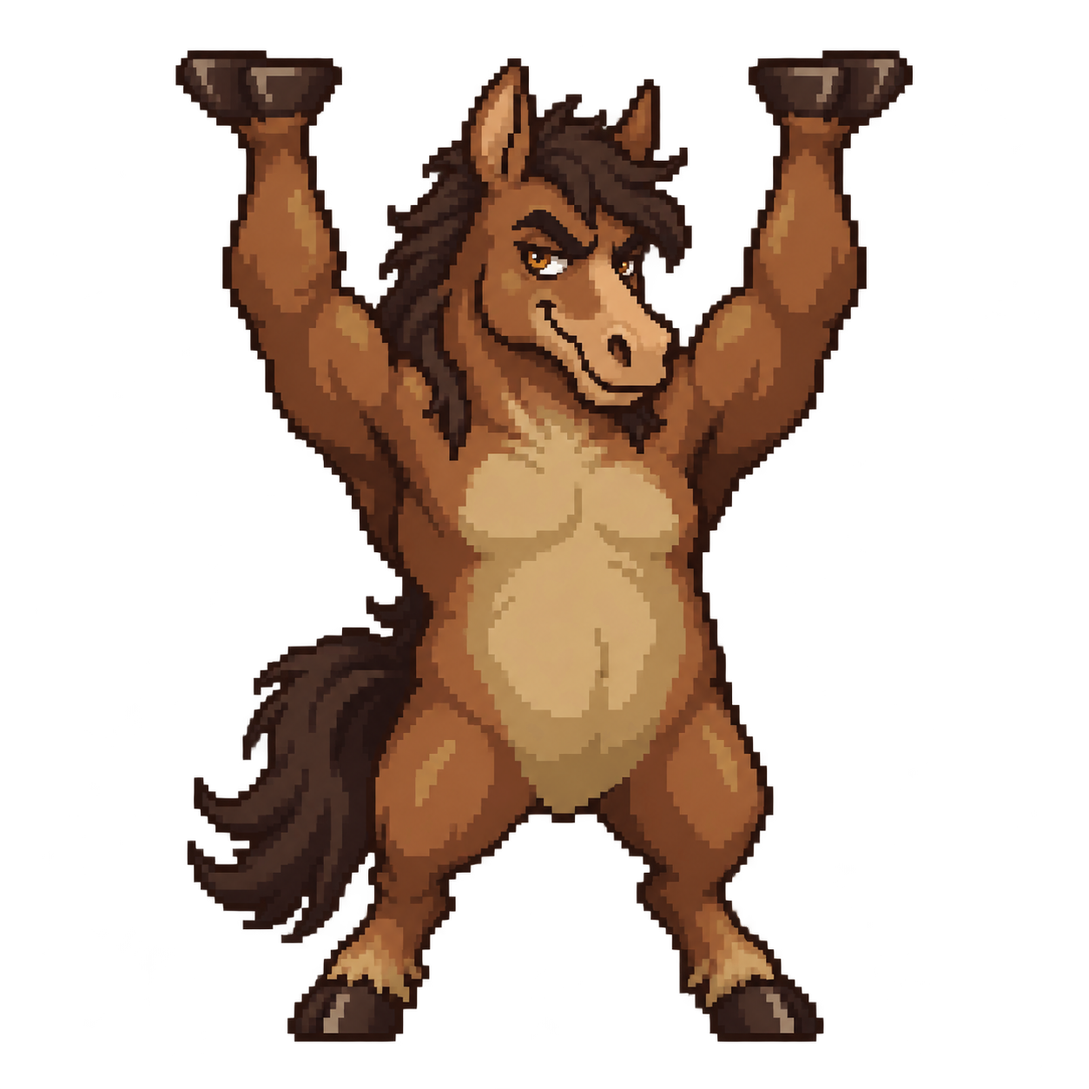
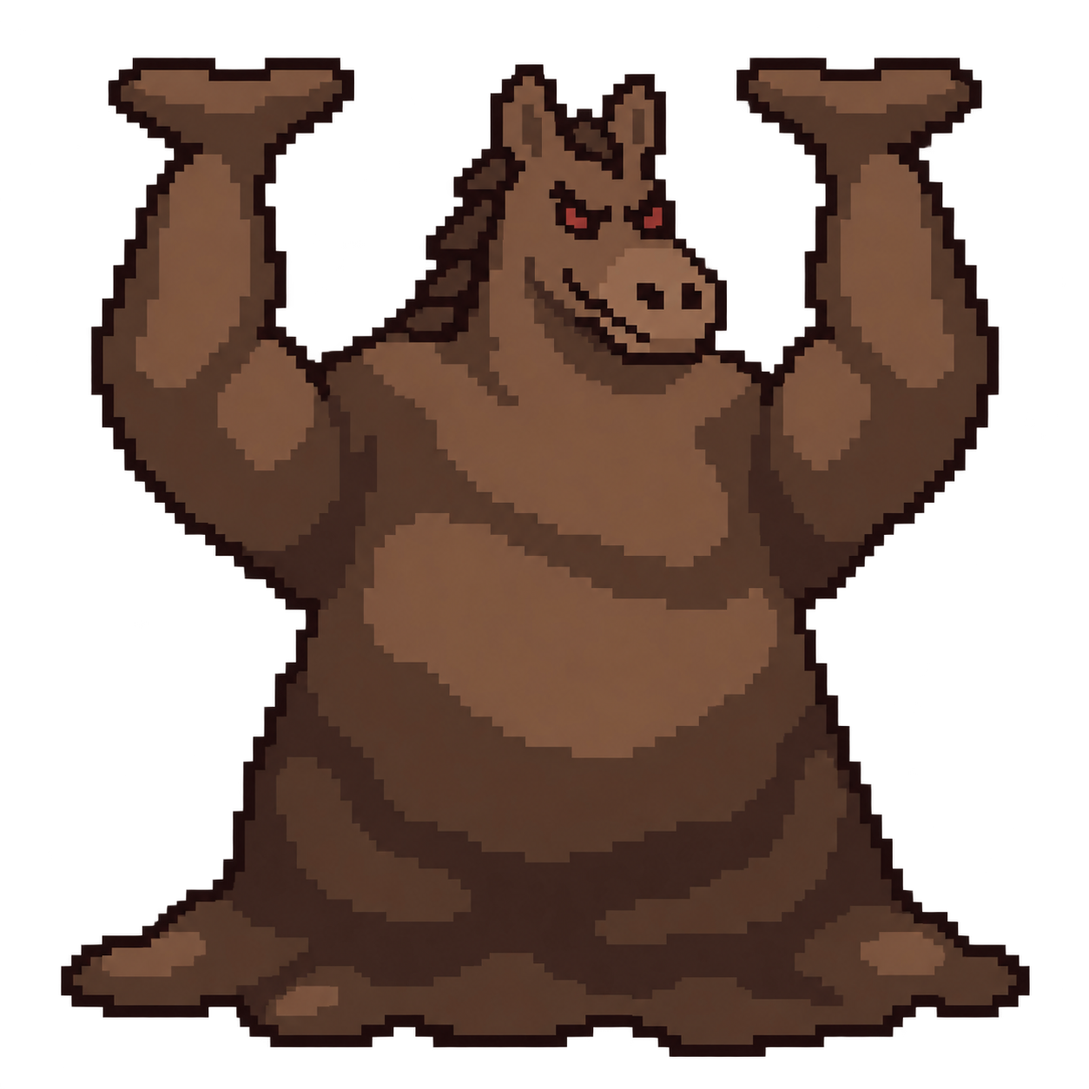
Update YNM app gallery content and theme previews

diff --git a/assets/serenity-data.js b/assets/serenity-data.js
@@ -4,30 +4,38 @@ import { serenityPrivacy } from "./serenity-privacy.js";
 export const serenity = {
   id: "yaonima",
   name: "摇泥马",
-  initials: "宁静",
-  icon: "./serenity-icon.png",
+  initials: "YNM",
+  icon: "./serenity-icon.png?v=20260922",
   accent: "#4a643d",
   version: "iOS 1.0.0",
   platform: "iPhone · iOS 17.4+",
   tagline: "封印纷扰，把宁静还给自己。",
-  description: "把让你分心的应用收进锁妖笼，在一片像素森林里找回日常的宁静。平时保持隐藏，需要时短暂解封，让每一次打开，都出于自己的选择。",
+  description: "把让你分心的应用收进锁妖笼，用喜欢的主题和轻松的封印互动找回日常的宁静。平时保持隐藏，需要时短暂解封，让每一次打开，都出于自己的选择。",
+  appStoreUrl: "https://apps.apple.com/app/id6812591609",
   privacy: serenityPrivacy,
   features: [
     { title: "让干扰，暂时隐去", description: "通过系统选择器，把容易分心的应用收进同一个锁妖笼。锁定期间保持隐藏，无需反复开启专注计时。" },
     { title: "需要时，从容解封", description: "临时解封可选 5、15、30 分钟，或 1～6 小时；也可提前重新封印，把选择权留在手里。" },
-    { title: "桌面上的快捷入口", description: "通过桌面组件快速解封或立即恢复锁定，少一点来回切换，多一点顺手。" },
-    { title: "让森林，重新有生机", description: "随着笼内应用增加，妖兽逐渐被压入地下。封印完成时，破败森林恢复葱郁，让每一点改变都看得见。" },
-    { title: "亲自出手，封印妖兽", description: "锁定且封印未满时，连续点击妖兽也能推进封印。游戏进度只影响画面，不增加真实应用限制，也不影响解封。" },
+    { title: "桌面上的快捷入口", description: "添加名为“锁妖笼”的小型或中型桌面组件，查看状态与倒计时，快速解封或立即封印。组件跟随主题与妖兽名字，刷新由系统安排。" },
+    { title: "三种主题，随心切换", description: "默认的潦草涂鸦、复古像素森林、简洁黑白手绘，均可在设置中预览并切换。主页、弹窗和组件一起换装，不重置应用清单或解封计时。" },
+    { title: "亲自出手，封印妖兽", description: "锁定且封印未满时，点击妖兽或持续轻摇手机都能推进封印；“摇一摇封印”可在设置中关闭。游戏进度只影响画面，不增加真实应用限制，也不影响解封。" },
+    { title: "给妖兽，起个专属名字", description: "点击主页标题旁的编辑图标，输入最多 4 个字的名字。主页、故事、教程和组件标题同步变化，留空恢复“YNM”。" },
+    { title: "封印推进，场景焕新", description: "妖兽随进度从邪笑变为抵抗、流汗，直至被压入地下。像素森林恢复葱郁，涂鸦枝条添叶，黑白手绘迎来金光与小黑云。" },
+    { title: "使用手册，随时查看", description: "设置中的“帮助”提供使用手册与权限说明，不熟悉操作时随时查阅，也可通过开发者渠道反馈问题。" },
     { title: "选择与状态，留在本机", description: "无需注册账号，不上传应用列表或使用数据。应用选择、解封状态和偏好由设备本地保存。" },
   ],
   faq: [
+    { title: "怎样更换主题？会影响解封吗？", description: "打开设置 → 外观 → 皮肤，预览并选择潦草涂鸦、像素森林或黑白手绘。默认使用潦草涂鸦。切换后保留应用选择、手动进度和解封截止时间；无权限时也能换肤。桌面组件可能稍后才刷新外观。" },
+    { title: "如何给妖兽改名？", description: "点击主页标题旁的编辑图标，输入最多 4 个字并保存；留空恢复“YNM”。主页、故事、教程、空笼提示和组件内容会跟随名字变化，系统主屏幕中组件下方的固定名称仍为“锁妖笼”。请避免填写敏感信息，名字可能显示在桌面上。" },
+    { title: "摇一摇封印怎么用？为什么没反应？", description: "先在设置中确认“摇一摇封印”已开启。授权正常、主页处于锁定且封印未满、没有弹窗或设置页遮挡时，握稳手机持续轻摇即可推进封印；无需大幅甩动。解封、后台、已满封印或权限不足时不会响应。不便摇动或设备不支持时可直接点击妖兽，关闭开关后点击仍可用。" },
+    { title: "在哪里查看使用手册？", description: "打开设置，在“帮助”中选择“使用手册”；需要了解授权时选择下方的“权限说明”。手动完成封印是暂时的游戏状态，不代表永久通关，也不会改变应用的真实隐藏规则。" },
     { title: "第一次使用，怎样开始？", description: "在主页点击“授予权限”，完成个人屏幕使用时间授权；再点击锁妖笼，通过系统选择器选好要隐藏的应用并保存。需要使用时，在主页或桌面组件临时解封。" },
-    { title: "封印、隐藏和游戏进度是什么关系？", description: "应用的封印对应所选应用的隐藏状态。即使森林里的封印进度没有达到 100%，锁定时已选应用也会隐藏。点击妖兽只改变游戏表现，不会额外限制应用，更不需要先完成游戏才能解封。" },
+    { title: "封印、隐藏和游戏进度是什么关系？", description: "应用的封印对应所选应用的隐藏状态。即使画面里的封印进度没有达到 100%，锁定时已选应用也会隐藏。点击或轻摇只改变游戏表现，不会额外限制应用，更不需要先完成游戏才能解封。" },
     { title: "解封有哪些时长？到期会准时恢复吗？", description: "可选 5、15、30 分钟以及 1～6 小时。有限解封到期后由系统监测恢复锁定；持续锁屏等情况下，系统回调可能延迟，下一次回调或打开摇泥马时会同步状态。它不是精确到秒的强制计时器。" },
     { title: "为什么没有“自动”解封？", description: "只有系统后台 App 刷新可用时才显示“自动”。自动解封半小时后等待系统安排后台检查，不代表半小时一定重新封印。后台刷新不可用时会改为“一小时”；进行中的自动解封从原开始时间计算这一小时。可检查系统后台 App 刷新设置，或选择明确的有限时长。" },
     { title: "出现“锁妖笼·已失灵”怎么办？", description: "这表示当前屏幕使用时间权限不足。请在主页重新授予权限，必要时检查系统设置。原有选择和解封时间会保留，授权恢复后继续同步；仍在有效期内的解封不会被主动提前结束。" },
     { title: "为什么应用数量与选中的分类数量不同？", description: "笼内数量按系统选择器实际返回、去重并成功保存的应用计算，分类本身不额外计数。分类内之后新装或卸载的应用不保证实时同步；需要调整时，请重新打开选择器确认并保存。" },
-    { title: "手动封印为什么退回了？", description: "锁定且未满时，20 次连续有效点击可完成手动封印；未完成时停点 5 秒后，每 2 秒衰减一次点击进度。完成后保持 16 小时，解封期间仍计时；减少已选应用会清除手动状态。这些变化不改变真实应用隐藏规则。" },
+    { title: "手动封印为什么退回了？", description: "锁定且未满时，20 次连续有效手动操作可完成封印，点击与持续轻摇都可累积。未完成时停止操作 5 秒后，每 2 秒衰减一次进度。完成后保持 16 小时，解封期间仍计时；减少已选应用会清除手动状态。这些变化不改变真实应用隐藏规则。" },
     { title: "桌面组件状态没有及时变化怎么办？", description: "先打开摇泥马，检查授权与当前解封状态，让应用同步一次，再回到桌面查看。组件刷新受系统安排影响；重要操作后可在应用内确认，仍有问题请记录发生时间和操作步骤后联系开发者。" },
     { title: "可以用于家长控制或查看使用内容吗？", description: "摇泥马面向个人自我管理，使用个人屏幕使用时间授权，不提供家长控制、远程监督或使用内容查看，也不是无法绕过的强制锁机工具。" },
     { title: "如何管理选择、撤回授权或删除数据？", description: "授权可用时，可在锁妖笼中修改或移除应用选择；也可通过系统设置撤回相关授权。撤权不会主动清除原有选择。需要清理本地应用数据时，请先移除限制，再在系统中删除 App（而不是仅卸载 App 或从主屏幕移除）。开发者没有应用数据的云端副本。" },

diff --git a/assets/serenity-privacy.js b/assets/serenity-privacy.js
@@ -2,18 +2,19 @@ const section = (title, ...paragraphs) => ({ title, paragraphs });
 
 // 独立政策，不继承其它应用的主体、支持数据期限或回复时限。
 export const serenityPrivacy = {
-  updatedAt: "2026 年 9 月 17 日",
+  updatedAt: "2026 年 9 月 22 日",
   summary: "你的应用选择，留在你的设备。摇泥马无需账号，不上传应用列表或使用数据。主动反馈和访问网页涉及的信息，在下文单独说明。",
   sections: [
     section("适用范围", "本政策适用于 hmw 提供的摇泥马 iPhone 应用，以及本应用的介绍、隐私与技术支持页面。内容依据当前 1.0.0 实现，自 2026 年 9 月 17 日起适用。摇泥马是一款个人应用隐藏工具，不提供家长控制或远程监督。"),
-    section("在设备上处理的信息", "应用在本机保存你通过系统选择器选中的应用和分类、默认解封时长、当前锁定状态，以及解封开始和结束时间，用于执行限制、到期恢复和桌面组件显示。这些信息不会上传给开发者。", "故事引导是否读完、手动封印的点击进度与有效时间、应用选择成功保存次数和是否请求过评分等偏好，也保存在本机，用于恢复画面和减少重复提示。", "应用不读取所选应用里的聊天、照片、浏览记录或其他具体使用内容，不建立使用行为画像。无需提供姓名、手机号或注册账号。"),
+    section("在设备上处理的信息", "应用在本机保存你通过系统选择器选中的应用和分类、默认解封时长、当前锁定状态，以及解封开始和结束时间，用于执行限制、到期恢复和桌面组件显示。这些信息不会上传给开发者。", "故事引导是否读完、手动封印的点击或轻摇累计进度与有效时间、应用选择成功保存次数和是否请求过评分等偏好，也保存在本机，用于恢复画面和减少重复提示。皮肤选择、妖兽自定义名字及“摇一摇封印”开关也保存在本机；皮肤和名字用于同步主页与桌面组件。名字可能出现在桌面上，请避免填写敏感信息。", "应用不读取所选应用里的聊天、照片、浏览记录或其他具体使用内容，不建立使用行为画像。无需提供姓名、手机号或注册账号。"),
     section("权限与系统服务", "屏幕使用时间授权用于选择和隐藏应用，以及在解封结束后恢复限制。你可以拒绝或在系统设置中撤回授权；权限不足时相关限制功能不可用，但原有选择和解封状态仍保留，以便重新授权后继续使用。", "后台 App 刷新用于系统允许时检查自动解封状态；桌面组件在设备内读取必要状态并执行快捷操作。系统调度存在延迟，不保证精确到秒执行。", "系统评分提示由系统决定是否展示；本应用不读取你提交的评分或评价内容。应用不请求相机、麦克风、定位或通讯录权限。"),
+    section("摇一摇与动作数据", "“摇一摇封印”默认开启，仅在应用处于前台主页、授权正常、已锁定且封印未满、没有设置页或弹窗等覆盖时读取设备动作数据，用于判断轻摇并推进游戏画面。动作数据仅在本机即时处理，不保存原始动作采样，不上传给开发者，不用于健康分析或行为画像。", "关闭设置中的“摇一摇封印”、离开主页、进入后台、解封、完成封印或失去权限时停止读取。你可以随时关闭该功能，继续通过点击妖兽操作；应用不读取步数或运动历史。"),
     section("本地保存与诊断", "应用、桌面组件与到期监测功能在设备内共享必要状态，无开发者服务器，也没有开发者提供的云端同步或备份。系统自身的备份行为由你的设备设置及系统服务规则决定。", "关键操作和异常会产生本机诊断日志，供排查授权、保存或状态同步问题；日志不由本应用自动上传。诊断信息不记录屏幕使用时间选择凭据或所选应用的具体使用内容。设备安全依赖系统保护及你对设备的妥善管理。"),
     section("共享与第三方组件", "当前应用没有集成广告、用户追踪、访问统计或崩溃收集 SDK，不出售应用选择或使用数据，也不向开发者上传这些数据。执行限制、后台检查和评分等功能需要调用系统服务，相应服务按其自身规则处理必要信息。", "主动打开社交主页或其他外部链接时，后续信息处理适用对应平台的隐私规则。本页面的联系链接不会附带你的应用选择或解封状态。"),
     { ...section("网站访问", "这些页面使用现有静态站点托管。本页面不设置广告或分析 Cookie，不使用浏览器持久存储，也不加载第三方字体、统计脚本或远程图片。", "站点托管服务可能处理 IP 地址、设备或浏览器信息、请求时间和访问日志；这与摇泥马应用本身的本地数据处理不同。相关处理请参阅托管平台隐私声明。"), action: { label: "查看托管平台隐私声明", href: "https://docs.github.com/en/site-policy/privacy-policies/github-general-privacy-statement" } },
     section("主动联系与反馈", "只有在你主动通过“找到开发者”中的渠道联系时，开发者才会收到你发送的联系方式、问题描述、系统与应用版本，以及自愿提供的截图或诊断信息，用于与你沟通和排查问题。请先遮盖私人内容，不要发送密码、完整应用列表或无关的个人资料。", "第三方社交平台会按自身政策处理会话信息。对于你提供给开发者的支持信息，可通过原联系渠道询问处理情况或提出更正、删除请求；处理时仅核实必要信息。"),
-    section("你的选择与删除方式", "你可以在系统选择器中调整或移除已选应用，在系统设置中撤回屏幕使用时间授权或调整后台 App 刷新。撤回权限会影响相关功能，但不会自动抹去已保存的选择。", "本地配置和偏好保留至被修改、清理或随 App 删除。需要清理时，建议先移除应用限制，再使用系统“删除 App”功能；仅“卸载 App”或从主屏幕移除不等同于删除全部应用数据。系统备份及系统日志由系统管理，不能由开发者远程清理。开发者没有本地应用数据的云端副本，无法远程查看或恢复这些数据。"),
+    section("你的选择与删除方式", "你可以在设置中更换皮肤、关闭摇一摇，在主页编辑或清空妖兽名字，也可以在系统选择器中调整或移除已选应用，在系统设置中撤回屏幕使用时间授权或调整后台 App 刷新。撤回权限会影响相关功能，但不会自动抹去已保存的选择。", "本地配置和偏好保留至被修改、清理或随 App 删除。需要清理时，建议先移除应用限制，再使用系统“删除 App”功能；仅“卸载 App”或从主屏幕移除不等同于删除全部应用数据。系统备份及系统日志由系统管理，不能由开发者远程清理。开发者没有本地应用数据的云端副本，无法远程查看或恢复这些数据。"),
     section("未成年人使用", "本应用用于个人自我管理，不以收集未成年人信息为目的，也不具备监护人远程管理功能。未成年人应在监护人指导下理解权限和使用边界。若监护人认为未成年人通过支持渠道提供了不应保留的信息，可联系开发者处理。"),
-    { ...section("政策更新与联系我们", "功能、权限或信息处理方式发生变化时，我们会更新本页面及更新日期，并在需要时提示相关变化。隐私问题及主动反馈信息的查询、更正、删除请求，可通过下方页面提供的渠道联系 hmw。"), action: { label: "找到开发者", href: "../support/" } },
+    { ...section("政策更新与联系我们", "功能、权限或信息处理方式发生变化时，我们会更新本页面及更新日期。本次于 2026 年 9 月 22 日补充皮肤、妖兽名字、摇一摇及动作数据处理说明，保留原生效日期，并在需要时提示相关变化。隐私问题及主动反馈信息的查询、更正、删除请求，可通过下方页面提供的渠道联系 hmw。"), action: { label: "找到开发者", href: "../support/" } },
   ],
 };

diff --git a/assets/serenity-app.js b/assets/serenity-app.js
@@ -1,4 +1,5 @@
 import { escapeHtml, prepareSerenityPage } from "./serenity-theme.js";
+import { renderSerenitySkins } from "./serenity-skins.js";
 
 export function renderSerenityApp(root, app) {
   prepareSerenityPage("app", app.description);
@@ -9,23 +10,24 @@ export function renderSerenityApp(root, app) {
         <p class="serenity-chapter">第一章 · 夺回你的宁静</p>
         <h1>封印纷扰。<br>让生活<span>重归宁静。</span></h1>
         <p class="serenity-description">${escapeHtml(app.description)}</p>
-        <div class="hero-actions"><a class="button button-primary" href="#start">开启宁静之旅 <span aria-hidden="true">↓</span></a><a class="text-link" href="../support/?app=yaonima">查看使用指南 ↗</a></div>
-        <p class="serenity-release">iPhone 专属 · 无需账号 · 数据留在本机<br>下载入口待开放</p>
+        <div class="hero-actions"><a class="button button-primary" href="${escapeHtml(app.appStoreUrl)}" rel="noopener noreferrer">前往 App Store <span aria-hidden="true">↗</span></a><a class="text-link" href="../support/?app=yaonima">查看使用指南 ↗</a></div>
+        <p class="serenity-release">iPhone 专属 · 无需账号 · 数据留在本机<br>可用地区与上架状态以商店为准</p>
       </div>
       <figure class="serenity-art">
-        <div class="serenity-scene" role="img" aria-label="像素森林中，锁妖笼镇压着妖兽摇泥马的概念场景">
-          <div class="serenity-scene-label">摇 泥 马 <span>封印纷扰 · 守护日常</span></div>
+        <div class="serenity-scene serenity-scene-doodle" role="img" aria-label="潦草涂鸦主题中，锁妖笼与马头泥身妖兽的概念场景">
+          <div class="serenity-scene-label">封印 YNM <span>潦草涂鸦 · 默认主题</span></div>
           <div class="serenity-cage"><span class="serenity-cage-sign">锁 妖 笼</span><div class="serenity-cage-symbols" aria-hidden="true"><i>✦</i><i>◈</i><i>✿</i><i>◆</i></div></div>
-          <img class="serenity-beast" src="${new URL("./serenity-beast.png", import.meta.url).href}" alt="" width="1280" height="1280">
+          <img class="serenity-beast" src="${new URL("./serenity-doodle.png", import.meta.url).href}" alt="" width="1280" height="1280">
           <p class="serenity-scene-caption">收服一点纷扰，找回一片宁静。</p>
         </div>
-        <figcaption><span>来自应用的像素世界</span><span>场景示意 · 非实际界面</span></figcaption>
+        <figcaption><span>三种主题 · 同样从容</span><span>场景示意 · 非实际界面</span></figcaption>
       </figure>
     </section>
     <div class="serenity-values shell"><span><i aria-hidden="true">◆</i> 日常隐藏</span><span><i aria-hidden="true">◆</i> 按需解封</span><span><i aria-hidden="true">◆</i> 设备本地保存</span></div>
+    ${renderSerenitySkins()}
     <section class="serenity-section shell" aria-labelledby="features-title"><div class="serenity-heading"><div><p class="kicker">LESS DISTRACTION, MORE LIFE</p><h2 id="features-title">把注意力，<br>留给真正想做的事。</h2></div><p>不必每次都与意志力较量。<br>给容易分心的日常，多一道温柔的边界。</p></div><div class="serenity-features">${app.features.map((item, i) => `<article><span class="serenity-index">0${i + 1}</span><h3>${escapeHtml(item.title)}</h3><p>${escapeHtml(item.description)}</p></article>`).join("")}</div></section>
     <section class="serenity-start shell" id="start" aria-labelledby="start-title"><div><p class="kicker">YOUR FIRST QUEST</p><h2 id="start-title">三步，<br>开启你的封印之旅。</h2><p>无需账号，也没有复杂的任务。<br>从一个容易让你分心的应用开始。</p></div><ol><li><span>壹</span><div><h3>授予屏幕使用时间权限</h3><p>在主页完成个人授权，让摇泥马可以为你隐藏所选应用。</p></div></li><li><span>贰</span><div><h3>把分心的应用收进笼中</h3><p>点击锁妖笼，使用系统选择器挑选应用并保存。锁定时，它们会保持隐藏。</p></div></li><li><span>叁</span><div><h3>需要时，再短暂解封</h3><p>选一个合适的时长，或通过桌面组件快捷操作。也可以随时提前重新封印。</p></div></li></ol></section>
     <aside class="serenity-boundary shell"><span aria-hidden="true">◇</span><div><h2>是日常的帮手，不是强制的枷锁。</h2><p>摇泥马面向个人自我管理，不提供家长控制。恢复锁定依赖系统调度，持续锁屏时可能延迟；“自动”模式在解封半小时后等待后台机会，并非精确定时。游戏里的封印进度，不改变真实应用限制。</p></div></aside>
-    <section class="serenity-bottom shell"><article><p class="kicker">YOUR DATA, YOUR DEVICE</p><h2>宁静，也关乎隐私。</h2><p>了解本地保存、系统权限与删除方式。</p><a class="text-link" href="../privacy/?app=yaonima">阅读隐私政策 →</a></article><article><p class="kicker">WE ARE HERE TO HELP</p><h2>旅途中，需要帮忙？</h2><p>关于授权、解封、组件和手动封印的解答。</p><a class="text-link" href="../support/?app=yaonima">前往技术支持 →</a></article></section>
-    <p class="serenity-version shell">依据 ${escapeHtml(app.version)} 当前实现 · 2026.09.17 更新 · 商店发布状态以正式下载入口为准</p>`;
+    <section class="serenity-bottom shell"><article><p class="kicker">YOUR DATA, YOUR DEVICE</p><h2>宁静，也关乎隐私。</h2><p>了解本地保存、系统权限与删除方式。</p><a class="text-link" href="../privacy/?app=yaonima">阅读隐私政策 →</a></article><article><p class="kicker">WE ARE HERE TO HELP</p><h2>旅途中，需要帮忙？</h2><p>关于主题、命名、摇一摇、授权、解封和组件的解答。</p><a class="text-link" href="../support/?app=yaonima">前往技术支持 →</a></article></section>
+    <p class="serenity-version shell">依据 ${escapeHtml(app.version)} 当前实现 · 2026.09.22 更新 · 商店发布状态以正式下载入口为准</p>`;
 }

diff --git a/assets/serenity-skins.css b/assets/serenity-skins.css
@@ -1,0 +1,30 @@
+/* 三主题展示模块与默认涂鸦场景；样式作用域仅限摇泥马。 */
+.serenity-skins { padding-top: 64px; }
+.serenity-skins-grid { display: grid; grid-template-columns: repeat(3, minmax(0, 1fr)); gap: 22px; }
+.serenity-skin-card { border: 2px solid #62634d; background: #fffdf3; box-shadow: 4px 4px 0 #d9d1b1; min-width: 0; }
+.serenity-skin-art { height: 285px; position: relative; overflow: hidden; display: flex; align-items: end; justify-content: center; }
+.serenity-skin-art > span { position: absolute; top: 15px; left: 15px; z-index: 1; padding: 4px 9px; background: #fffdf3; border: 1px solid #535340; color: #30352b; font-size: 11px; }
+.serenity-skin-art img { width: 235px; height: 235px; object-fit: contain; }
+.serenity-skin-doodle { background: repeating-linear-gradient(#fbf6e9 0 27px, #d8dccf 28px 29px); }
+.serenity-skin-pixel { background: #526745 url('./serenity-forest.png') center 42% / cover; }
+.serenity-skin-pixel img { image-rendering: pixelated; }
+.serenity-skin-monochrome { background: #fff; }
+.serenity-skin-copy { border-top: 1px solid #cbc4ac; padding: 22px; }
+.serenity-skin-copy h3 { margin: 0 0 10px; font-size: 21px; }
+.serenity-skin-copy p { margin: 0; font-size: 13px; color: var(--muted); }
+.serenity-skins-note { margin: 20px 0 0; color: var(--muted); font-size: 11px; }
+.serenity-page .serenity-scene-doodle { background: repeating-linear-gradient(#fcf7ea 0 28px, #d5d9cc 29px 30px); }
+.serenity-page .serenity-scene-doodle::before { background: none; }
+.serenity-scene-doodle .serenity-scene-label { color: #322e27; text-shadow: none; }
+.serenity-scene-doodle .serenity-cage { border: 4px solid #39352b; border-radius: 7px 3px 9px 4px; background: #fff9e5d9; box-shadow: 3px 3px 0 #6c60453b; }
+.serenity-scene-doodle .serenity-cage-sign { background: #f8efd9; color: #3c332b; border: 2px solid #3c332b; border-radius: 3px 7px 2px 5px; }
+.serenity-scene-doodle .serenity-cage-symbols i { color: #fff9e5; background: #985442; border: 2px solid #3c332b; border-radius: 4px 7px 3px 6px; }
+.serenity-scene-doodle .serenity-beast { image-rendering: auto; }
+.serenity-scene-doodle .serenity-scene-caption { background: #fcf2d9; border: 2px solid #4d4236; border-radius: 2px 6px 4px 2px; }
+@media (max-width: 850px) {
+  .serenity-skins-grid { gap: 14px; }.serenity-skin-art { height: 225px; }.serenity-skin-art img { width: 180px; height: 180px; }.serenity-skin-copy { padding: 18px; }
+}
+@media (max-width: 580px) {
+  .serenity-skins { padding-top: 44px; }.serenity-skins-grid { grid-template-columns: 1fr; gap: 22px; }
+  .serenity-skin-art { height: 265px; }.serenity-skin-art img { width: 230px; height: 230px; }
+}

diff --git a/assets/serenity-skins.js b/assets/serenity-skins.js
@@ -1,0 +1,19 @@
+// 三套皮肤仅作外观展示，不在网站读取设备动作或改变 App 设置。
+import { escapeHtml } from "./serenity-theme.js";
+
+const skins = [
+  { key: "doodle", name: "潦草涂鸦", badge: "默认主题", image: "./serenity-doodle.png", description: "横线纸、随手画的笼子与潦草妖兽。封印完成后，枝条长出新叶。" },
+  { key: "pixel", name: "像素森林", badge: "复古像素", image: "./serenity-beast.png?v=20260922", description: "森林遗址、像素笼体与马头泥身妖兽。封印完成后，破败森林恢复生机。" },
+  { key: "monochrome", name: "黑白手绘", badge: "简洁留白", image: "./serenity-monochrome.png", description: "白底黑线、圆润按钮与炭黑妖兽。封印完成后，金光与小黑云淡入背景。" },
+];
+
+export function renderSerenitySkins() {
+  return `<section class="serenity-skins shell" aria-labelledby="skins-title">
+    <div class="serenity-heading"><div><p class="kicker">THREE LOOKS, YOUR CHOICE</p><h2 id="skins-title">换个主题，<br>用你喜欢的方式封印纷扰。</h2></div><p>设置 → 外观 → 皮肤<br>随时预览切换，应用清单与解封计时照常保留。</p></div>
+    <div class="serenity-skins-grid">${skins.map(skin => `<article class="serenity-skin-card">
+      <div class="serenity-skin-art serenity-skin-${skin.key}"><span>${skin.badge}</span><img src="${new URL(skin.image, import.meta.url).href}" alt="${escapeHtml(skin.name)}的马头泥身妖兽" width="1280" height="1280" loading="lazy"></div>
+      <div class="serenity-skin-copy"><h3>${skin.name}</h3><p>${skin.description}</p></div>
+    </article>`).join("")}</div>
+    <p class="serenity-skins-note">使用应用内当前素材制作的主题示意，非实际界面截图。主页、弹窗与小型/中型桌面组件跟随所选皮肤；组件刷新由系统安排。</p>
+  </section>`;
+}

diff --git a/assets/serenity-support.js b/assets/serenity-support.js
@@ -1,12 +1,12 @@
 import { prepareSerenityPage } from "./serenity-theme.js";
 
 export function enhanceSerenitySupport(app) {
-  prepareSerenityPage("support", `${app.name}技术支持：授权、应用隐藏、临时解封、桌面组件及手动封印的常见问题。`);
+  prepareSerenityPage("support", `${app.name}技术支持：授权、应用隐藏、临时解封、桌面组件、三种主题、妖兽命名及摇一摇封印的常见问题。`);
   const hero = document.querySelector(".app-support-hero");
   hero.querySelector(".kicker").textContent = "摇泥马 / ADVENTURER’S GUIDE";
   hero.querySelector("h1").textContent = "宁静之旅，总有解答。";
   hero.querySelector("p:not(.kicker)").textContent = "技术支持 · 从第一次收服应用，到每一次从容解封。";
-  document.querySelector(".app-support-help p:not(.kicker)").textContent = "请告诉我们应用版本、iOS 版本、问题发生时间与操作步骤，以及屏幕使用时间和后台 App 刷新的状态。截图请遮盖私人内容，不要发送密码或完整应用列表。";
+  document.querySelector(".app-support-help p:not(.kicker)").textContent = "请告诉我们应用版本、iOS 版本、问题发生时间与操作步骤，以及当前主题、屏幕使用时间和后台 App 刷新的状态。摇一摇问题请补充开关状态和当时是否有弹窗。截图请遮盖私人内容，不要发送密码或完整应用列表。";
   document.querySelectorAll(".app-support-faq details").forEach((item, index) => {
     item.addEventListener("toggle", () => {
       if (item.open) console.info("[hmw gallery] Serenity help expanded", { topic: index + 1 });

diff --git a/assets/serenity-theme.js b/assets/serenity-theme.js
@@ -22,7 +22,7 @@ export function prepareSerenityPage(active, description) {
   document.querySelector('meta[name="theme-color"]').content = "#f5e8b8";
   const icon = document.createElement("link");
   icon.rel = "icon";
-  icon.href = new URL("./serenity-icon.png", import.meta.url).href;
+  icon.href = new URL("./serenity-icon.png?v=20260922", import.meta.url).href;
   document.head.append(icon);
   document.querySelector(".site-nav").innerHTML = links.map(([key, label, href]) => `<a href="${href}" ${active === key ? 'class="is-active" aria-current="page"' : ""}>${label}</a>`).join("");
   document.querySelector(".footer-links").innerHTML = '<a href="../#apps">全部 App</a>' + links.map(([, label, href]) => `<a href="${href}">${label}</a>`).join("");

diff --git a/assets/serenity.css b/assets/serenity.css
@@ -1,4 +1,5 @@
-/* 摇泥马专属：复用客户端森林、玄铁、苔绿与羊皮纸；无外部字体。 */
+@import url("./serenity-skins.css");
+/* 摇泥马专属：纸面阅读与三套皮肤展示；无外部字体。 */
 .serenity-page {
   --paper: #f5edcf; --ink: #293329; --muted: #5e634c; --line: #cfc59e;
   --orange: #6a743b; --green: #354a32; --white: #fff8df;

diff --git a/功能描述.md b/功能描述.md
@@ -63,25 +63,35 @@
 
 ### 功能目的与限制
 
-为摇泥马提供 APP 介绍、独立隐私政策、技术支持及公共目录卡片。公开名称按用户确认使用“摇泥马”，URL 标识为 `yaonima`；源项目的“宁静之地”旧名称不作为本次页面名称。介绍依据当前 iOS 1.0.0 实现，支持 iPhone / iOS 17.4+，不将工作区版本视为已发布版本，下载地址未提供时明确标注待开放。
+为独立应用摇泥马提供介绍、隐私政策、技术支持和首页目录卡片，公开路由标识为 `yaonima`。依据 2026-09-22 当前 iOS 1.0.0 / iOS 17.4+ 实现，不以工作区版本推断商店状态；商店入口来自客户端已确认 ID 6812591609，可用地区与上架状态以商店页面为准。
 
-核心功能包含日常隐藏、5/15/30 分钟与 1～6 小时有限解封、桌面组件、森林复苏与手动封印、本地保存。自动解封仅在后台 App 刷新可用时提供，半小时后等待系统机会；不可用时按原开始时间转为一小时。有限解封也存在系统回调延迟，不宣传强制锁机、精确到秒或家长控制；手动游戏进度不改变真实应用限制。
+介绍覆盖应用选择与隐藏、5/15/30 分钟及 1～6 小时有限解封、自动解封、三主题、点击/轻摇手动封印、妖兽命名、桌面组件、设置帮助及本地保存。自动模式仅在后台 App 刷新可用时提供，半小时后等待系统机会；不可用时按原开始时间转为一小时。有限解封也存在系统调度延迟，不宣传强制锁机或家长控制，游戏进度不改变真实限制。
 
 ### 依赖与模块交互
 
-通过 catalog 注册，沿用 `/app/?id=yaonima`、`/privacy/?app=yaonima`、`/support/?app=yaonima` 三类路由。复用现有政策正文渲染、技术支持 FAQ 和公共开发者渠道；独立内容、共用外观、介绍、支持增强、政策目录和 CSS 分文件维护。三个页面均具备相互导航与返回 App 列表入口，其它应用和公共开发者页保持原设计。
+保留 `/app/?id=yaonima`、`/privacy/?app=yaonima`、`/support/?app=yaonima`。复用 catalog、政策正文、原生 FAQ 与公共开发者渠道；内容、主题展示、页面呈现和样式独立维护。三个页面相互导航且能返回列表；其它 App、公共开发者页与客户端不改动。
 
-### 处理逻辑与视觉设计
+主题展示使用独立 serenity-skins.js/css 及当前客户端素材，默认潦草涂鸦，并列像素森林、黑白手绘；示意不等于实际截图，网站不改变 App 皮肤或监听动作。首页卡片、介绍身份图与页面 favicon 统一引用 Asset Catalog 当前主图标，版本查询参数使已缓存旧图标可更新。
 
-介绍页复用客户端图标、森林和妖兽素材，以玄铁笼体、像素边框、苔绿和羊皮纸组成场景，明确标注“场景示意 · 非实际界面”。首屏、功能卡片、三步指南、能力边界和政策/帮助入口适配窄屏；政策与支持不在正文背景铺设场景图，以保持阅读对比。使用系统字体、原生链接和 details/summary，支持键盘焦点、跳到正文、目录锚点和减少动态效果偏好，无额外框架。
+### 处理逻辑与设计
 
-隐私政策区分设备本地数据、系统必要处理、托管访问与用户主动反馈，包含选择、解封、游戏、引导、评分偏好及诊断说明。撤权保留选择，删除说明区分系统“删除 App”和“卸载 App”；不承诺开发者可远程恢复本地数据。十组 FAQ 复用当前功能事实，联系前提示隐去私人内容。页面加载与 FAQ 展开只记录公开类型/序号到本地控制台，不发送日志。
+介绍以应用隐藏为核心，而非将某种皮肤定义为应用整体。主题说明涵盖主页、弹窗、组件跟随皮肤以及切换保留选择/计时；三态妖兽与森林复苏、涂鸦添叶和黑白金光按应用事实介绍。名字最多 4 个字，清空恢复 YNM，主页/故事/教程/组件内容同步，组件固定显示名为“锁妖笼”。
+
+轻摇仅在开关开启、前台主页、授权正常、已锁定且未满封印、无覆盖界面时读取动作；关闭开关、后台、解封或完成时停止。支持说明提示轻摇需握稳手机、无需甩动，不便摇动时可点击。手动封印只影响画面，保留 20 次有效操作、未完成衰减、16 小时完成有效期及减少应用清除规则。
+
+政策包含 11 个章节，补充皮肤、名字、开关及动作数据的即时本机处理，不保存原始采样、不上传、不读取步数和运动历史；明确桌面名字公开可见的注意事项。保留既有本地数据、系统处理、托管访问、主动反馈、删除及运营条款，最后更新为 2026-09-22，生效日期仍为 2026-09-17。支持页 14 组 FAQ 含新增主题/命名/轻摇/手册操作，并继续提醒用户隐去私密信息。
+
+沿用原生链接、details/summary、系统字体、响应式布局、焦点样式、跳转正文和政策目录。长文使用高对比纸面，不铺复杂背景。日志仅记录页面与 FAQ 的公开类型/序号，不上传用户数据。
+
+本次验收覆盖 320、390、768、1440px 四种宽度共 48 组页面，包含其它应用回归；新图标、三主题展示、14 组 FAQ、11 个政策目录、键盘操作、无效地址与无脚本提示通过检查，无溢出、坏图、资源错误或外部请求，已人工复核页面截图。
 
 ### 设计考虑与 TODO
 
-现有成熟静态工具足以满足需求，无新服务、API 或运行时数据实体，无需新增数据库或多线程共享状态。政策使用 hmw 提供方，不继承其它 App 的主体和支持处理期限；运营方应在发布前审核主体披露和支持数据保留规则。等待正式商店链接再补充下载入口。本次范围为本地展示站，不改客户端、源项目旧命名或线上部署。
+现有静态工具适用，无新增第三方库、服务、API 或持久化数据实体。使用当前已引用的图标而非未引用候选图，不改客户端未提交变更。隐私运营主体及支持数据实际保留规则仍需发布前审核；商店公开状态未能外部核实。仅本地更新，线上部署需另行执行。
 
 ## 修改历史
+
+- 2026-09-22 16:05 CST：更新摇泥马模块目的、功能、依赖、视觉与处理边界；同步三套皮肤、轻摇封印、自定义名字、组件固定名与帮助入口，替换主图标及像素妖兽，新增主题示意模块。补齐动作数据隐私说明、11 章政策/14 组 FAQ、商店入口与发布限制，保持现有路由、其它应用及客户端不变。
 
 - 2026-09-17 16:42 CST：新增摇泥马专属模块说明，记录三个页面及目录卡片的目的、限制、模块依赖、路由、像素森林视觉、响应式/键盘交互、本地日志与隐私信息边界。按用户确认使用“摇泥马”及 yaonima 公开标识；通过 48 组响应式检查及 FAQ 键盘、政策目录和无效路由回归，明确未配置商店入口、发布前隐私运营审核及不变更客户端的范围。
 
